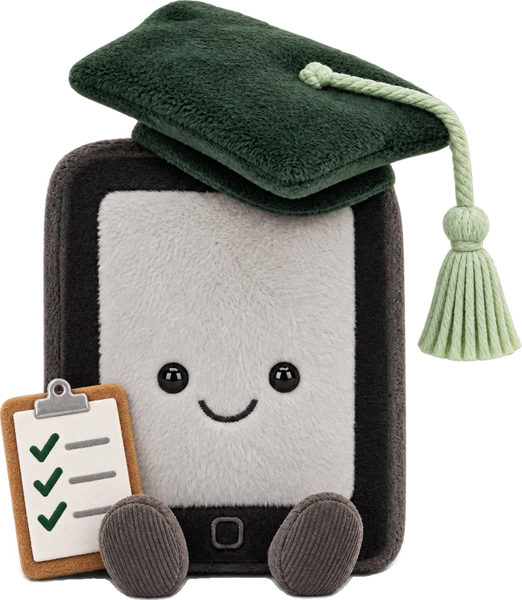
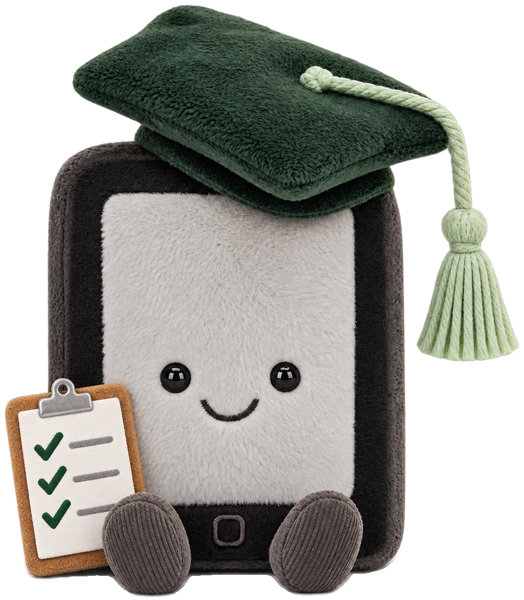
Stan images: all stray haze removed on every side, padded edges so nothing is cut; deeper bubble shadow on phones

Changed region(s): [[0.0, 0.0, 1.0, 1.0], [0.3678, 0.66, 0.4598, 0.72], [0.3065, 0.6, 0.3678, 0.66]]

diff --git a/dashboard/index.html b/dashboard/index.html
@@ -103,7 +103,7 @@
     .stan.float img { height: 112px; filter: drop-shadow(0 6px 10px rgba(28,28,26,0.28)) drop-shadow(0 1px 2px rgba(28,28,26,0.18)); }
     .stan.float img[data-mood="sleep"] { height: 80px; }
     .stan.float .bubble { background: #FFFFFF; color: var(--chalk); font-size: 13px; padding: 9px 13px; width: max-content; max-width: 228px; text-wrap: balance; box-shadow: 0 10px 24px rgba(28,28,26,0.26), 0 2px 6px rgba(28,28,26,0.12); }
-    .stan.float .bubble { box-shadow: none; filter: drop-shadow(0 10px 18px rgba(28,28,26,0.40)) drop-shadow(0 2px 5px rgba(28,28,26,0.24)); }
+    .stan.float .bubble { box-shadow: none; filter: drop-shadow(0 12px 20px rgba(28,28,26,0.50)) drop-shadow(0 3px 6px rgba(28,28,26,0.30)); }
     .stan.float .bubble::after { border-color: transparent transparent transparent #FFFFFF; }
     .stan.float.quiet .bubble { display: none; }
     #states td:first-child { min-width: 170px; }
